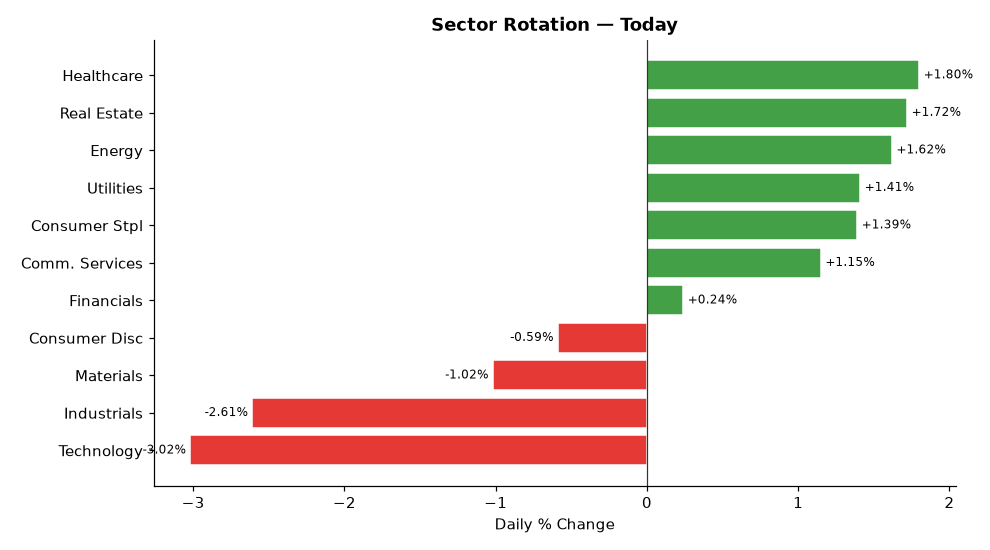
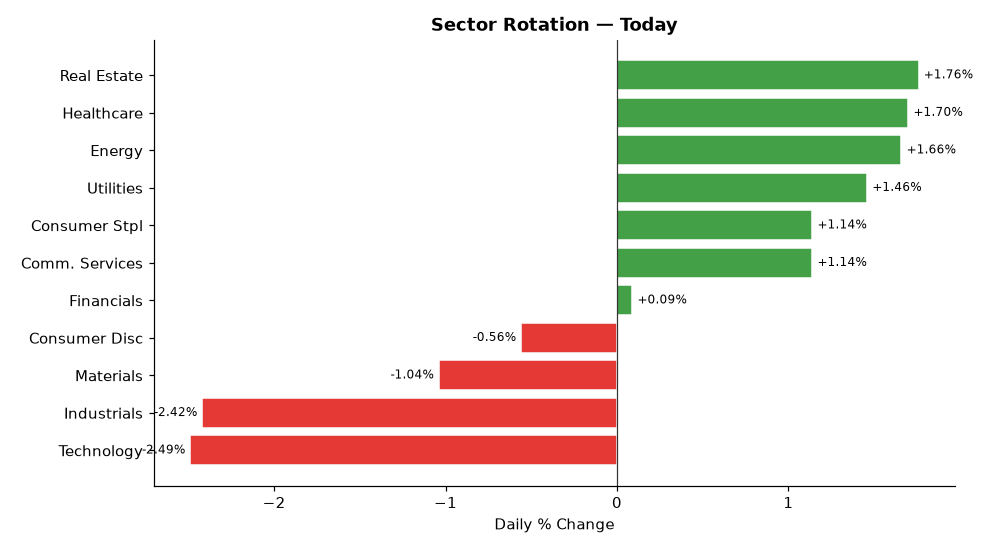
deploy: b7fadf5b06deb90e7ebb92f278722414bdd9750d

diff --git a/index.html b/index.html
@@ -4,7 +4,7 @@
   <meta charset="UTF-8">
   <meta name="viewport" content="width=device-width,initial-scale=1">
   <meta http-equiv="Cache-Control" content="no-cache,no-store,must-revalidate">
-  <title>Stock Breakout Screener — 2026-07-07 15:42</title>
+  <title>Stock Breakout Screener — 2026-07-07 15:59</title>
   <style>
     *{box-sizing:border-box;margin:0;padding:0}
     body{font-family:'Segoe UI',Arial,sans-serif;background:#f0f2f5;
@@ -34,20 +34,20 @@
 
 <div class="hdr">
   <h1>📈 Stock Breakout Screener</h1>
-  <p>Updated: 2026-07-07 15:42 UTC &nbsp;·&nbsp; Phase: Regular Market Hours &nbsp;·&nbsp;
+  <p>Updated: 2026-07-07 15:59 UTC &nbsp;·&nbsp; Phase: Regular Market Hours &nbsp;·&nbsp;
      129 stocks screened &nbsp;·&nbsp; Top 5 by conviction score</p>
 </div>
 
 <div class="card">
   <strong style="font-size:14px">Market Sentiment: 🐻 Bearish</strong>
   <div class="bar-wrap" style="margin-top:10px">
-    <div style="width:1%;background:#43a047"></div>
-    <div style="width:7%;background:#fdd835"></div>
+    <div style="width:0%;background:#43a047"></div>
+    <div style="width:8%;background:#fdd835"></div>
     <div style="width:92%;background:#e53935"></div>
   </div>
   <div style="font-size:12px;color:#555">
-    🟢 Strong 1% &nbsp;
-    🟡 Moderate 7% &nbsp;
+    🟢 Strong 0% &nbsp;
+    🟡 Moderate 8% &nbsp;
     🔴 Weak 92%
   </div>
 </div>
@@ -59,26 +59,9 @@
                     box-shadow:0 2px 6px rgba(0,0,0,.07)">
           <div style="display:flex;align-items:center;gap:10px;
                       flex-wrap:wrap;margin-bottom:10px">
-            <span style="font-size:22px">🟢</span>
-            <span style="font-size:19px;font-weight:700">1. ABBV</span>
-            <span style="font-size:12px;color:#666">Healthcare</span>
-            <span style="margin-left:auto;background:#1a237e;color:#fff;
-                         padding:3px 12px;border-radius:12px;
-                         font-size:13px;font-weight:600">
-              12/17
-            </span>
-          </div>
-          <ul style="margin:0;padding-left:18px;font-size:13px;
-                     color:#333;line-height:1.8"><li style="margin:5px 0"><span style="background:#ffebee;color:#b71c1c;padding:2px 7px;border-radius:4px;font-size:11px;">❌</span> Volume: <b>0.2× average</b> — Above-average activity</li><li style="margin:5px 0"><span style="background:#ffebee;color:#b71c1c;padding:2px 7px;border-radius:4px;font-size:11px;">❌</span> Candle: close <b>$257.77</b> vs open <b>$257.21</b> (+0.2%) — regular market close</li><li style="margin:5px 0"><span style="background:#e8f5e9;color:#2e7d32;padding:2px 7px;border-radius:4px;font-size:11px;">✅</span> 200-Day MA: price <b>$257.77</b> vs MA <b>$218.45</b> — <b>✅ Above</b> long-term trend</li><li style="margin:5px 0"><span style="background:#e8f5e9;color:#2e7d32;padding:2px 7px;border-radius:4px;font-size:11px;">✅</span> Inst. ownership: <b>76.8%</b> · MFI: <b>71.5</b> · Market cap: <b>$455.2B</b></li><li style="margin:5px 0"><span style="background:#fffde7;color:#f57f17;padding:2px 7px;border-radius:4px;font-size:11px;">⚠</span> Last similar breakout: <b>Jun 26, 2026</b> → <b>+1.7%</b> over 10 trading days</li></ul>
-        </div>
-        <div style="background:#fff;border:1px solid #ddd;border-radius:10px;
-                    padding:16px 20px;margin-bottom:12px;
-                    box-shadow:0 2px 6px rgba(0,0,0,.07)">
-          <div style="display:flex;align-items:center;gap:10px;
-                      flex-wrap:wrap;margin-bottom:10px">
             <span style="font-size:22px">🟡</span>
-            <span style="font-size:19px;font-weight:700">2. LLY</span>
-            <span style="font-size:12px;color:#666">Healthcare</span>
+            <span style="font-size:19px;font-weight:700">1. SPG</span>
+            <span style="font-size:12px;color:#666">Real Estate</span>
             <span style="margin-left:auto;background:#1a237e;color:#fff;
                          padding:3px 12px;border-radius:12px;
                          font-size:13px;font-weight:600">
@@ -86,7 +69,7 @@
             </span>
           </div>
           <ul style="margin:0;padding-left:18px;font-size:13px;
-                     color:#333;line-height:1.8"><li style="margin:5px 0"><span style="background:#ffebee;color:#b71c1c;padding:2px 7px;border-radius:4px;font-size:11px;">❌</span> Volume: <b>0.4× average</b> — Above-average activity</li><li style="margin:5px 0"><span style="background:#ffebee;color:#b71c1c;padding:2px 7px;border-radius:4px;font-size:11px;">❌</span> Candle: close <b>$1236.37</b> vs open <b>$1232.88</b> (+0.3%) — regular market close</li><li style="margin:5px 0"><span style="background:#e8f5e9;color:#2e7d32;padding:2px 7px;border-radius:4px;font-size:11px;">✅</span> 200-Day MA: price <b>$1236.37</b> vs MA <b>$1021.37</b> — <b>✅ Above</b> long-term trend</li><li style="margin:5px 0"><span style="background:#e8f5e9;color:#2e7d32;padding:2px 7px;border-radius:4px;font-size:11px;">✅</span> Inst. ownership: <b>85.3%</b> · MFI: <b>59.0</b> · Market cap: <b>$1102.5B</b></li><li style="margin:5px 0"><span style="background:#fffde7;color:#f57f17;padding:2px 7px;border-radius:4px;font-size:11px;">⚠</span> Last similar breakout: <b>Jun 26, 2026</b> → <b>+2.3%</b> over 10 trading days</li></ul>
+                     color:#333;line-height:1.8"><li style="margin:5px 0"><span style="background:#ffebee;color:#b71c1c;padding:2px 7px;border-radius:4px;font-size:11px;">❌</span> Volume: <b>1.2× average</b> — Above-average activity</li><li style="margin:5px 0"><span style="background:#ffebee;color:#b71c1c;padding:2px 7px;border-radius:4px;font-size:11px;">❌</span> Candle: close <b>$225.00</b> vs open <b>$225.65</b> (-0.3%) — regular market close</li><li style="margin:5px 0"><span style="background:#e8f5e9;color:#2e7d32;padding:2px 7px;border-radius:4px;font-size:11px;">✅</span> 200-Day MA: price <b>$225.00</b> vs MA <b>$196.98</b> — <b>✅ Above</b> long-term trend</li><li style="margin:5px 0"><span style="background:#e8f5e9;color:#2e7d32;padding:2px 7px;border-radius:4px;font-size:11px;">✅</span> Inst. ownership: <b>95.0%</b> · MFI: <b>61.4</b> · Market cap: <b>$87.1B</b></li></ul>
         </div>
         <div style="background:#fff;border:1px solid #ddd;border-radius:10px;
                     padding:16px 20px;margin-bottom:12px;
@@ -94,7 +77,7 @@
           <div style="display:flex;align-items:center;gap:10px;
                       flex-wrap:wrap;margin-bottom:10px">
             <span style="font-size:22px">🟡</span>
-            <span style="font-size:19px;font-weight:700">3. AAPL</span>
+            <span style="font-size:19px;font-weight:700">2. AAPL</span>
             <span style="font-size:12px;color:#666">Technology</span>
             <span style="margin-left:auto;background:#1a237e;color:#fff;
                          padding:3px 12px;border-radius:12px;
@@ -103,7 +86,7 @@
             </span>
           </div>
           <ul style="margin:0;padding-left:18px;font-size:13px;
-                     color:#333;line-height:1.8"><li style="margin:5px 0"><span style="background:#ffebee;color:#b71c1c;padding:2px 7px;border-radius:4px;font-size:11px;">❌</span> Volume: <b>0.3× average</b> — Above-average activity</li><li style="margin:5px 0"><span style="background:#ffebee;color:#b71c1c;padding:2px 7px;border-radius:4px;font-size:11px;">❌</span> Candle: close <b>$314.15</b> vs open <b>$315.29</b> (-0.4%) — regular market close</li><li style="margin:5px 0"><span style="background:#e8f5e9;color:#2e7d32;padding:2px 7px;border-radius:4px;font-size:11px;">✅</span> 200-Day MA: price <b>$314.15</b> vs MA <b>$274.30</b> — <b>✅ Above</b> long-term trend</li><li style="margin:5px 0"><span style="background:#e8f5e9;color:#2e7d32;padding:2px 7px;border-radius:4px;font-size:11px;">✅</span> Inst. ownership: <b>65.8%</b> · MFI: <b>75.0</b> · Market cap: <b>$4614.9B</b></li><li style="margin:5px 0"><span style="background:#e8f5e9;color:#2e7d32;padding:2px 7px;border-radius:4px;font-size:11px;">✅</span> Last similar breakout: <b>Jun 26, 2026</b> → <b>+10.7%</b> over 10 trading days</li></ul>
+                     color:#333;line-height:1.8"><li style="margin:5px 0"><span style="background:#ffebee;color:#b71c1c;padding:2px 7px;border-radius:4px;font-size:11px;">❌</span> Volume: <b>0.3× average</b> — Above-average activity</li><li style="margin:5px 0"><span style="background:#ffebee;color:#b71c1c;padding:2px 7px;border-radius:4px;font-size:11px;">❌</span> Candle: close <b>$314.24</b> vs open <b>$315.29</b> (-0.3%) — regular market close</li><li style="margin:5px 0"><span style="background:#e8f5e9;color:#2e7d32;padding:2px 7px;border-radius:4px;font-size:11px;">✅</span> 200-Day MA: price <b>$314.24</b> vs MA <b>$274.30</b> — <b>✅ Above</b> long-term trend</li><li style="margin:5px 0"><span style="background:#e8f5e9;color:#2e7d32;padding:2px 7px;border-radius:4px;font-size:11px;">✅</span> Inst. ownership: <b>65.8%</b> · MFI: <b>75.1</b> · Market cap: <b>$4615.6B</b></li><li style="margin:5px 0"><span style="background:#e8f5e9;color:#2e7d32;padding:2px 7px;border-radius:4px;font-size:11px;">✅</span> Last similar breakout: <b>Jun 26, 2026</b> → <b>+10.7%</b> over 10 trading days</li></ul>
         </div>
         <div style="background:#fff;border:1px solid #ddd;border-radius:10px;
                     padding:16px 20px;margin-bottom:12px;
@@ -111,7 +94,7 @@
           <div style="display:flex;align-items:center;gap:10px;
                       flex-wrap:wrap;margin-bottom:10px">
             <span style="font-size:22px">🟡</span>
-            <span style="font-size:19px;font-weight:700">4. JNJ</span>
+            <span style="font-size:19px;font-weight:700">3. ABBV</span>
             <span style="font-size:12px;color:#666">Healthcare</span>
             <span style="margin-left:auto;background:#1a237e;color:#fff;
                          padding:3px 12px;border-radius:12px;
@@ -120,7 +103,7 @@
             </span>
           </div>
           <ul style="margin:0;padding-left:18px;font-size:13px;
-                     color:#333;line-height:1.8"><li style="margin:5px 0"><span style="background:#ffebee;color:#b71c1c;padding:2px 7px;border-radius:4px;font-size:11px;">❌</span> Volume: <b>0.4× average</b> — Above-average activity</li><li style="margin:5px 0"><span style="background:#ffebee;color:#b71c1c;padding:2px 7px;border-radius:4px;font-size:11px;">❌</span> Candle: close <b>$269.23</b> vs open <b>$264.89</b> (+1.6%) — regular market close</li><li style="margin:5px 0"><span style="background:#e8f5e9;color:#2e7d32;padding:2px 7px;border-radius:4px;font-size:11px;">✅</span> 200-Day MA: price <b>$269.23</b> vs MA <b>$233.24</b> — <b>✅ Above</b> long-term trend</li><li style="margin:5px 0"><span style="background:#e8f5e9;color:#2e7d32;padding:2px 7px;border-radius:4px;font-size:11px;">✅</span> Inst. ownership: <b>76.8%</b> · MFI: <b>57.3</b> · Market cap: <b>$648.1B</b></li></ul>
+                     color:#333;line-height:1.8"><li style="margin:5px 0"><span style="background:#ffebee;color:#b71c1c;padding:2px 7px;border-radius:4px;font-size:11px;">❌</span> Volume: <b>0.2× average</b> — Above-average activity</li><li style="margin:5px 0"><span style="background:#ffebee;color:#b71c1c;padding:2px 7px;border-radius:4px;font-size:11px;">❌</span> Candle: close <b>$258.08</b> vs open <b>$257.21</b> (+0.3%) — regular market close</li><li style="margin:5px 0"><span style="background:#e8f5e9;color:#2e7d32;padding:2px 7px;border-radius:4px;font-size:11px;">✅</span> 200-Day MA: price <b>$258.08</b> vs MA <b>$218.45</b> — <b>✅ Above</b> long-term trend</li><li style="margin:5px 0"><span style="background:#e8f5e9;color:#2e7d32;padding:2px 7px;border-radius:4px;font-size:11px;">✅</span> Inst. ownership: <b>76.8%</b> · MFI: <b>71.6</b> · Market cap: <b>$456.0B</b></li><li style="margin:5px 0"><span style="background:#fffde7;color:#f57f17;padding:2px 7px;border-radius:4px;font-size:11px;">⚠</span> Last similar breakout: <b>Jun 26, 2026</b> → <b>+1.9%</b> over 10 trading days</li></ul>
         </div>
         <div style="background:#fff;border:1px solid #ddd;border-radius:10px;
                     padding:16px 20px;margin-bottom:12px;
@@ -128,8 +111,8 @@
           <div style="display:flex;align-items:center;gap:10px;
                       flex-wrap:wrap;margin-bottom:10px">
             <span style="font-size:22px">🟡</span>
-            <span style="font-size:19px;font-weight:700">5. UNH</span>
-            <span style="font-size:12px;color:#666">Healthcare</span>
+            <span style="font-size:19px;font-weight:700">4. PSA</span>
+            <span style="font-size:12px;color:#666">Real Estate</span>
             <span style="margin-left:auto;background:#1a237e;color:#fff;
                          padding:3px 12px;border-radius:12px;
                          font-size:13px;font-weight:600">
@@ -137,7 +120,24 @@
             </span>
           </div>
           <ul style="margin:0;padding-left:18px;font-size:13px;
-                     color:#333;line-height:1.8"><li style="margin:5px 0"><span style="background:#ffebee;color:#b71c1c;padding:2px 7px;border-radius:4px;font-size:11px;">❌</span> Volume: <b>0.7× average</b> — Above-average activity</li><li style="margin:5px 0"><span style="background:#ffebee;color:#b71c1c;padding:2px 7px;border-radius:4px;font-size:11px;">❌</span> Candle: close <b>$417.99</b> vs open <b>$423.49</b> (-1.3%) — regular market close</li><li style="margin:5px 0"><span style="background:#e8f5e9;color:#2e7d32;padding:2px 7px;border-radius:4px;font-size:11px;">✅</span> 200-Day MA: price <b>$417.99</b> vs MA <b>$334.82</b> — <b>✅ Above</b> long-term trend</li><li style="margin:5px 0"><span style="background:#e8f5e9;color:#2e7d32;padding:2px 7px;border-radius:4px;font-size:11px;">✅</span> Inst. ownership: <b>85.8%</b> · MFI: <b>51.9</b> · Market cap: <b>$387.1B</b></li></ul>
+                     color:#333;line-height:1.8"><li style="margin:5px 0"><span style="background:#ffebee;color:#b71c1c;padding:2px 7px;border-radius:4px;font-size:11px;">❌</span> Volume: <b>0.8× average</b> — Above-average activity</li><li style="margin:5px 0"><span style="background:#ffebee;color:#b71c1c;padding:2px 7px;border-radius:4px;font-size:11px;">❌</span> Candle: close <b>$324.00</b> vs open <b>$329.51</b> (-1.7%) — regular market close</li><li style="margin:5px 0"><span style="background:#e8f5e9;color:#2e7d32;padding:2px 7px;border-radius:4px;font-size:11px;">✅</span> 200-Day MA: price <b>$324.00</b> vs MA <b>$294.73</b> — <b>✅ Above</b> long-term trend</li><li style="margin:5px 0"><span style="background:#e8f5e9;color:#2e7d32;padding:2px 7px;border-radius:4px;font-size:11px;">✅</span> Inst. ownership: <b>87.2%</b> · MFI: <b>52.8</b> · Market cap: <b>$57.8B</b></li></ul>
+        </div>
+        <div style="background:#fff;border:1px solid #ddd;border-radius:10px;
+                    padding:16px 20px;margin-bottom:12px;
+                    box-shadow:0 2px 6px rgba(0,0,0,.07)">
+          <div style="display:flex;align-items:center;gap:10px;
+                      flex-wrap:wrap;margin-bottom:10px">
+            <span style="font-size:22px">🟡</span>
+            <span style="font-size:19px;font-weight:700">5. AVB</span>
+            <span style="font-size:12px;color:#666">Real Estate</span>
+            <span style="margin-left:auto;background:#1a237e;color:#fff;
+                         padding:3px 12px;border-radius:12px;
+                         font-size:13px;font-weight:600">
+              10/17
+            </span>
+          </div>
+          <ul style="margin:0;padding-left:18px;font-size:13px;
+                     color:#333;line-height:1.8"><li style="margin:5px 0"><span style="background:#ffebee;color:#b71c1c;padding:2px 7px;border-radius:4px;font-size:11px;">❌</span> Volume: <b>0.9× average</b> — Above-average activity</li><li style="margin:5px 0"><span style="background:#ffebee;color:#b71c1c;padding:2px 7px;border-radius:4px;font-size:11px;">❌</span> Candle: close <b>$194.35</b> vs open <b>$193.94</b> (+0.2%) — regular market close</li><li style="margin:5px 0"><span style="background:#e8f5e9;color:#2e7d32;padding:2px 7px;border-radius:4px;font-size:11px;">✅</span> 200-Day MA: price <b>$194.35</b> vs MA <b>$175.75</b> — <b>✅ Above</b> long-term trend</li><li style="margin:5px 0"><span style="background:#e8f5e9;color:#2e7d32;padding:2px 7px;border-radius:4px;font-size:11px;">✅</span> Inst. ownership: <b>96.7%</b> · MFI: <b>59.6</b> · Market cap: <b>$28.0B</b></li></ul>
         </div>
 
 
@@ -168,90 +168,90 @@
   
         <tr>
           <td style="font-weight:700;text-align:left;padding-left:10px">
-            🟢 ABBV</td>
-          <td style="background:#ffcdd2">0.2×</td>
-          <td style="background:#ffcdd2">+0.2%</td>
+            🟡 SPG</td>
+          <td style="background:#ffcdd2">1.2×</td>
+          <td style="background:#ffcdd2">-0.3%</td>
           <td style="background:#c8e6c9">
             ▲ Above</td>
           <td style="background:#c8e6c9">
-            76.8%</td>
+            95.0%</td>
           <td style="background:#c8e6c9">
-            71.5</td>
-          <td style="background:#c8e6c9">Healthcare</td>
+            61.4</td>
+          <td style="background:#c8e6c9">Real Estate</td>
           <td style="background:#c8e6c9">
-            107.7%</td>
-          <td style="background:#fff9c4">
-            +1.7%</td>
-          <td style="font-weight:800;font-size:15px">12/17</td>
-        </tr>
-        <tr>
-          <td style="font-weight:700;text-align:left;padding-left:10px">
-            🟡 LLY</td>
-          <td style="background:#ffcdd2">0.4×</td>
-          <td style="background:#ffcdd2">+0.3%</td>
-          <td style="background:#c8e6c9">
-            ▲ Above</td>
-          <td style="background:#c8e6c9">
-            85.3%</td>
-          <td style="background:#fff9c4">
-            59.0</td>
-          <td style="background:#c8e6c9">Healthcare</td>
-          <td style="background:#c8e6c9">
-            85.5%</td>
-          <td style="background:#fff9c4">
-            +2.3%</td>
+            81.5%</td>
+          <td style="background:#ffcdd2">
+            N/A</td>
           <td style="font-weight:800;font-size:15px">11/17</td>
         </tr>
         <tr>
           <td style="font-weight:700;text-align:left;padding-left:10px">
             🟡 AAPL</td>
           <td style="background:#ffcdd2">0.3×</td>
-          <td style="background:#ffcdd2">-0.4%</td>
+          <td style="background:#ffcdd2">-0.3%</td>
           <td style="background:#c8e6c9">
             ▲ Above</td>
           <td style="background:#c8e6c9">
             65.8%</td>
           <td style="background:#c8e6c9">
-            75.0</td>
+            75.1</td>
           <td style="background:#ffcdd2">Technology</td>
           <td style="background:#c8e6c9">
-            67.1%</td>
+            89.5%</td>
           <td style="background:#c8e6c9">
             +10.7%</td>
           <td style="font-weight:800;font-size:15px">10/17</td>
         </tr>
         <tr>
           <td style="font-weight:700;text-align:left;padding-left:10px">
-            🟡 JNJ</td>
-          <td style="background:#ffcdd2">0.4×</td>
-          <td style="background:#ffcdd2">+1.6%</td>
+            🟡 ABBV</td>
+          <td style="background:#ffcdd2">0.2×</td>
+          <td style="background:#ffcdd2">+0.3%</td>
           <td style="background:#c8e6c9">
             ▲ Above</td>
           <td style="background:#c8e6c9">
             76.8%</td>
-          <td style="background:#fff9c4">
-            57.3</td>
-          <td style="background:#c8e6c9">Healthcare</td>
           <td style="background:#c8e6c9">
-            120.1%</td>
+            71.6</td>
+          <td style="background:#fff9c4">Healthcare</td>
+          <td style="background:#c8e6c9">
+            105.6%</td>
+          <td style="background:#fff9c4">
+            +1.9%</td>
+          <td style="font-weight:800;font-size:15px">10/17</td>
+        </tr>
+        <tr>
+          <td style="font-weight:700;text-align:left;padding-left:10px">
+            🟡 PSA</td>
+          <td style="background:#ffcdd2">0.8×</td>
+          <td style="background:#ffcdd2">-1.7%</td>
+          <td style="background:#c8e6c9">
+            ▲ Above</td>
+          <td style="background:#c8e6c9">
+            87.2%</td>
+          <td style="background:#fff9c4">
+            52.8</td>
+          <td style="background:#c8e6c9">Real Estate</td>
+          <td style="background:#c8e6c9">
+            41.0%</td>
           <td style="background:#ffcdd2">
             N/A</td>
           <td style="font-weight:800;font-size:15px">10/17</td>
         </tr>
         <tr>
           <td style="font-weight:700;text-align:left;padding-left:10px">
-            🟡 UNH</td>
-          <td style="background:#ffcdd2">0.7×</td>
-          <td style="background:#ffcdd2">-1.3%</td>
+            🟡 AVB</td>
+          <td style="background:#ffcdd2">0.9×</td>
+          <td style="background:#ffcdd2">+0.2%</td>
           <td style="background:#c8e6c9">
             ▲ Above</td>
           <td style="background:#c8e6c9">
-            85.8%</td>
+            96.7%</td>
           <td style="background:#fff9c4">
-            51.9</td>
-          <td style="background:#c8e6c9">Healthcare</td>
+            59.6</td>
+          <td style="background:#c8e6c9">Real Estate</td>
           <td style="background:#c8e6c9">
-            110.2%</td>
+            60.9%</td>
           <td style="background:#ffcdd2">
             N/A</td>
           <td style="font-weight:800;font-size:15px">10/17</td>
@@ -277,58 +277,58 @@
       
         <tr>
           <td style="text-align:left;padding-left:10px;font-weight:600">
-            #1 Healthcare</td>
-          <td style="background:#e8f5e9;color:#2e7d32;font-weight:700">+1.80%</td>
+            #1 Real Estate</td>
+          <td style="background:#e8f5e9;color:#2e7d32;font-weight:700">+1.76%</td>
         </tr>
         <tr>
           <td style="text-align:left;padding-left:10px;font-weight:600">
-            #2 Real Estate</td>
-          <td style="background:#e8f5e9;color:#2e7d32;font-weight:700">+1.72%</td>
+            #2 Healthcare</td>
+          <td style="background:#e8f5e9;color:#2e7d32;font-weight:700">+1.70%</td>
         </tr>
         <tr>
           <td style="text-align:left;padding-left:10px;font-weight:600">
             #3 Energy</td>
-          <td style="background:#e8f5e9;color:#2e7d32;font-weight:700">+1.62%</td>
+          <td style="background:#e8f5e9;color:#2e7d32;font-weight:700">+1.66%</td>
         </tr>
         <tr>
           <td style="text-align:left;padding-left:10px;font-weight:600">
             #4 Utilities</td>
-          <td style="background:#e8f5e9;color:#2e7d32;font-weight:700">+1.41%</td>
+          <td style="background:#e8f5e9;color:#2e7d32;font-weight:700">+1.46%</td>
         </tr>
         <tr>
           <td style="text-align:left;padding-left:10px;font-weight:600">
             #5 Consumer Stpl</td>
-          <td style="background:#e8f5e9;color:#2e7d32;font-weight:700">+1.39%</td>
+          <td style="background:#e8f5e9;color:#2e7d32;font-weight:700">+1.14%</td>
         </tr>
         <tr>
           <td style="text-align:left;padding-left:10px;font-weight:600">
             #6 Comm. Services</td>
-          <td style="background:#e8f5e9;color:#2e7d32;font-weight:700">+1.15%</td>
+          <td style="background:#e8f5e9;color:#2e7d32;font-weight:700">+1.14%</td>
         </tr>
         <tr>
           <td style="text-align:left;padding-left:10px;font-weight:600">
             #7 Financials</td>
-          <td style="background:#e8f5e9;color:#2e7d32;font-weight:700">+0.24%</td>
+          <td style="background:#e8f5e9;color:#2e7d32;font-weight:700">+0.09%</td>
         </tr>
         <tr>
           <td style="text-align:left;padding-left:10px;font-weight:600">
             #8 Consumer Disc</td>
-          <td style="background:#ffebee;color:#c62828;font-weight:700">-0.59%</td>
+          <td style="background:#ffebee;color:#c62828;font-weight:700">-0.56%</td>
         </tr>
         <tr>
           <td style="text-align:left;padding-left:10px;font-weight:600">
             #9 Materials</td>
-          <td style="background:#ffebee;color:#c62828;font-weight:700">-1.02%</td>
+          <td style="background:#ffebee;color:#c62828;font-weight:700">-1.04%</td>
         </tr>
         <tr>
           <td style="text-align:left;padding-left:10px;font-weight:600">
             #10 Industrials</td>
-          <td style="background:#ffebee;color:#c62828;font-weight:700">-2.61%</td>
+          <td style="background:#ffebee;color:#c62828;font-weight:700">-2.42%</td>
         </tr>
         <tr>
           <td style="text-align:left;padding-left:10px;font-weight:600">
             #11 Technology</td>
-          <td style="background:#ffebee;color:#c62828;font-weight:700">-3.02%</td>
+          <td style="background:#ffebee;color:#c62828;font-weight:700">-2.49%</td>
         </tr>
     </table>
   </div>
@@ -367,7 +367,7 @@
         <li><b>Scoring weights:</b>
             Inst.Own(3) · Sector(3) · Volume(2) · Breakout(2) ·
             MA200(2) · MFI(2) · History(2) · IV(1) = 17pts max</li>
-        <li><b>Run time:</b> 2026-07-07 15:42 UTC — Market phase: Regular Market Hours</li>
+        <li><b>Run time:</b> 2026-07-07 15:59 UTC — Market phase: Regular Market Hours</li>
       </ul>
     </div>
 
